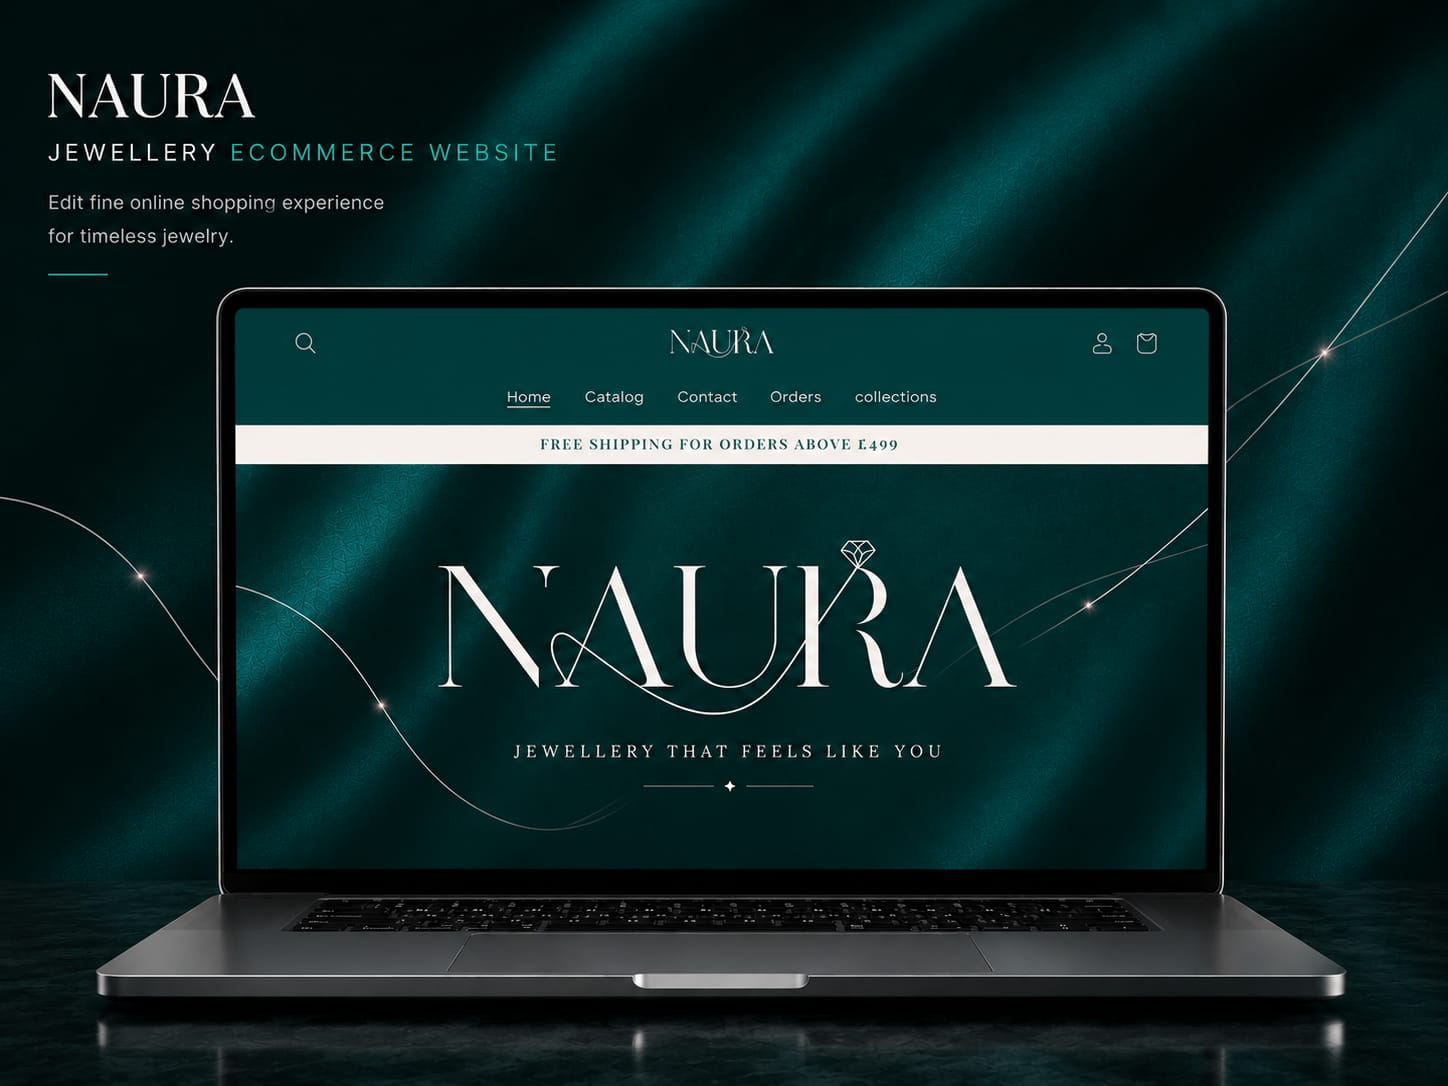
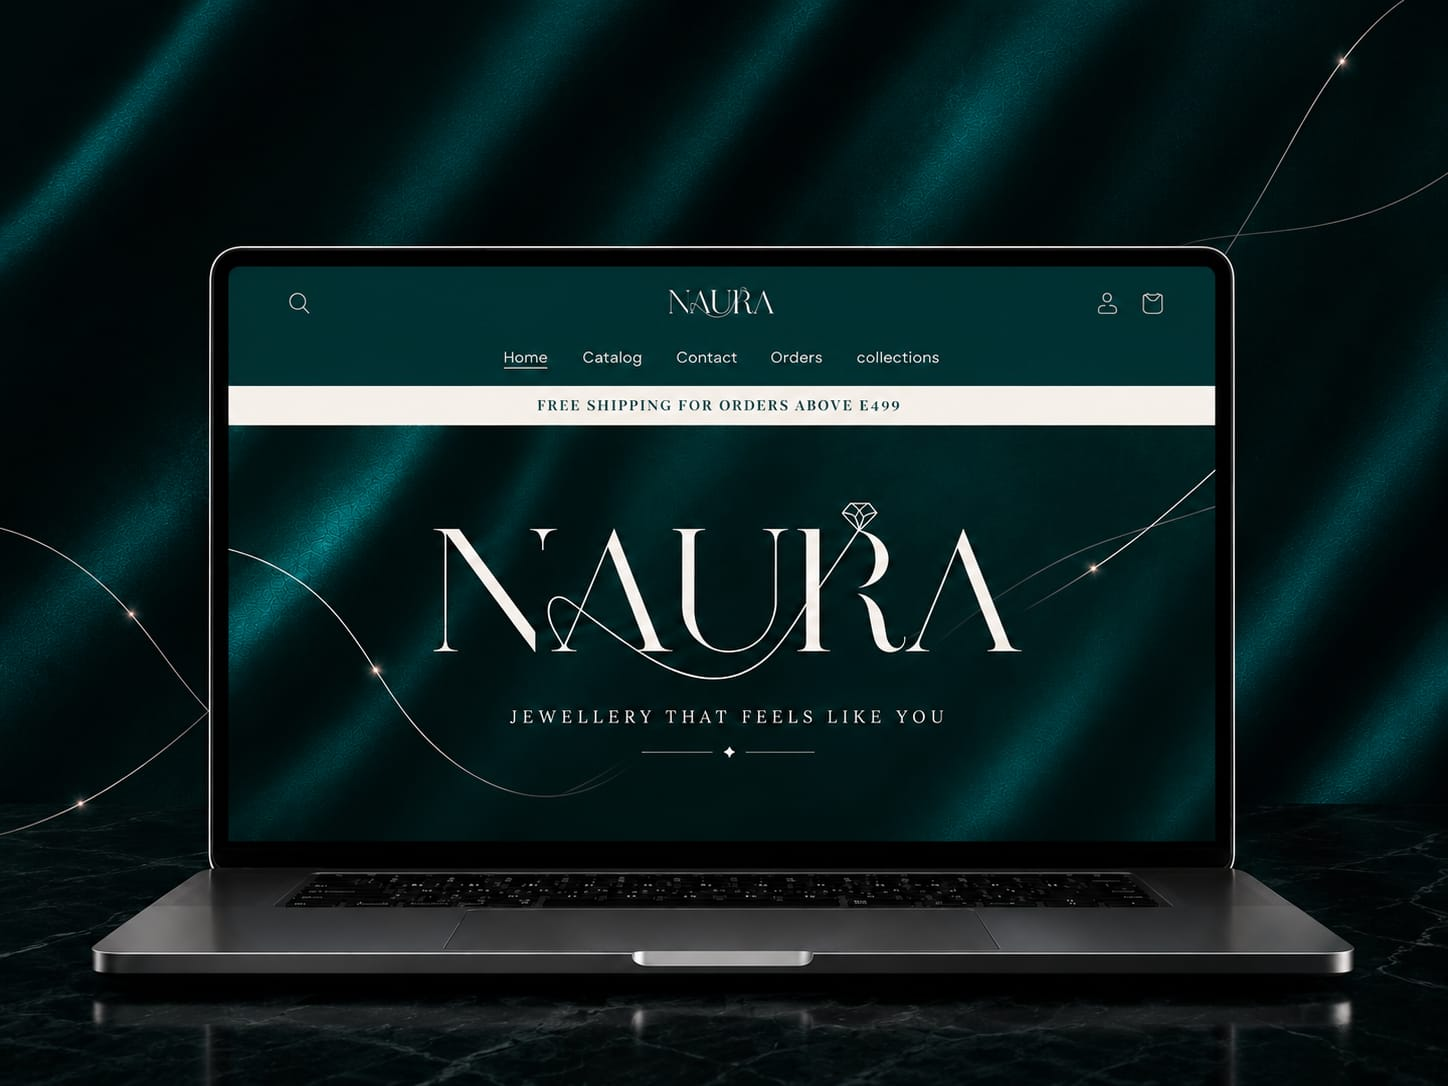
hey

diff --git a/src/data/project.js b/src/data/project.js
@@ -117,4 +117,98 @@ export const projectsData = [
       },
     ],
   },
+  {
+  id: "outlinx",
+  type: "outlinx",
+
+  title: "Outlinx",
+
+  tagline: "Portfolio Website for a Graphic Design Business",
+
+  tech: [
+    "HTML",
+    "Tailwind CSS",
+    "JavaScript"
+  ],
+
+  overview:
+    "Outlinx is a portfolio website developed for a graphic design business to showcase services, creative work, and brand identity through a modern and visually engaging web experience.",
+
+  sections: [
+    {
+      title: "Landing Page",
+      screenshots: [
+        {
+          image: "/projects/out1.jpeg",
+          title: "Landing Page",
+        },
+      ],
+      bullets: [
+        "Introduces the brand through a clean and modern interface",
+        "Highlights creative services and business identity",
+        "Creates a strong first impression for potential clients",
+      ],
+    },
+
+    {
+      title: "Portfolio Showcase",
+      screenshots: [
+        {
+          image: "/projects/out2.jpeg",
+          title: "Portfolio Showcase",
+        },
+      ],
+      bullets: [
+        "Displays completed design projects in a structured layout",
+        "Highlights visual storytelling and creative work",
+        "Allows visitors to explore the designer's portfolio",
+      ],
+    },
+
+    {
+      title: "Services Section",
+      screenshots: [
+        {
+          image: "/projects/out3.jpeg",
+          title: "Services Section",
+        },
+      ],
+      bullets: [
+        "Presents available design services clearly",
+        "Organizes offerings for better user understanding",
+        "Supports potential client inquiries",
+      ],
+    },
+
+    {
+      title: "About Section",
+      screenshots: [
+        {
+          image: "/projects/out4.jpeg",
+          title: "About Section",
+        },
+      ],
+      bullets: [
+        "Communicates the brand story and mission",
+        "Builds trust through a personal introduction",
+        "Strengthens the business identity",
+      ],
+    },
+
+    {
+      title: "Contact Section",
+      screenshots: [
+        {
+          image: "/projects/out5.jpeg",
+          title: "Contact Section",
+        },
+      ],
+      bullets: [
+        "Provides multiple ways for clients to connect",
+        "Encourages inquiries and project discussions",
+        "Creates a smooth communication experience",
+      ],
+    },
+  ],
+}
 ];

diff --git a/src/components/project.jsx b/src/components/project.jsx
@@ -20,7 +20,7 @@ tech: ["Shopify", "Liquid"],
   category: "Portfolio Website",
   description:
     "A portfolio website developed for a graphic design business to showcase services, creative work, and brand identity.",
-  image: "/cover/outlinx.png",
+  image: "/cover/outlinx.jpeg",
   tech: ["HTML", "Tailwind CSS", "JavaScript"],
 },
 

diff --git a/src/components/ProjectModal.jsx b/src/components/ProjectModal.jsx
@@ -5,6 +5,7 @@ import { ChevronLeft, ChevronRight, ExternalLink, X } from "lucide-react";
 import { Swiper, SwiperSlide } from "swiper/react";
 import { Autoplay, EffectFade, Mousewheel } from "swiper/modules";
 
+
 import "swiper/css";
 import "swiper/css/effect-fade";
 